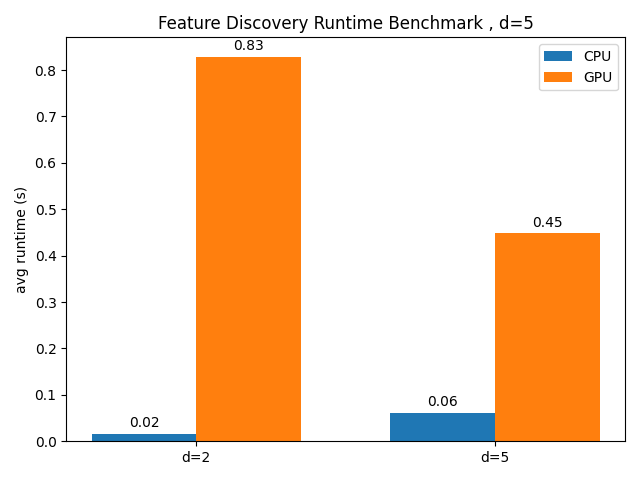
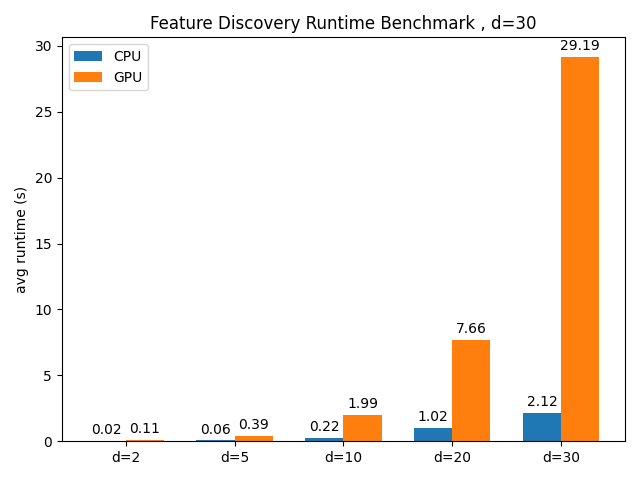
start readme

diff --git a/scripts/performance_benchmark.py b/scripts/performance_benchmark.py
@@ -142,7 +142,7 @@ def benchmark_dim_scaling(n_test:int = 1):
 
     # test 3
     n_sample = 100
-    n_dim = 25
+    n_dim = 20
     df = get_test_dataset(n_sample, n_dim)
     current_cpu_time, current_gpu_time = benchmark(df, n_test=n_test)
     labels.append('d={}'.format(n_dim))
@@ -152,13 +152,14 @@ def benchmark_dim_scaling(n_test:int = 1):
   
     # test 4
     n_sample = 100
-    n_dim = 50
+    n_dim = 30
     df = get_test_dataset(n_sample, n_dim)
     current_cpu_time, current_gpu_time = benchmark(df, n_test=n_test)
     labels.append('d={}'.format(n_dim))
     t_cpu.append(current_cpu_time)
     t_gpu.append(current_gpu_time)
 
+    '''
     # test 5
     n_sample = 100
     n_dim = 100
@@ -167,7 +168,7 @@ def benchmark_dim_scaling(n_test:int = 1):
     labels.append('d={}'.format(n_dim))
     t_cpu.append(current_cpu_time)
     t_gpu.append(current_gpu_time)
-
+    '''
 
 
     #make a bar plot of the performances

diff --git a/README.md b/README.md
@@ -1,1 +1,15 @@
-# Feature_Discovery
+# Feature Discovery
+
+Feature Discovery is a machine learning library which aims to make it easier to find non-linear representations of 
+your data that are beneficial for a specific classification task. Instead of manually having to look at a mountain of 
+scree plots whilst trying to figure out how to engineer your feature space, Feature Discovery does the gruntwork for you 
+and tries to come up with a list of promising transformations of the input features for you to look into
+in more detail.   
+
+# Background
+
+A commonly known method for building machine learning models is the kernel method. The idea is to take a data set that
+isn't linearly separable and make it separable by transforming the data into a higher dimensional space that is.
+
+ 
+
